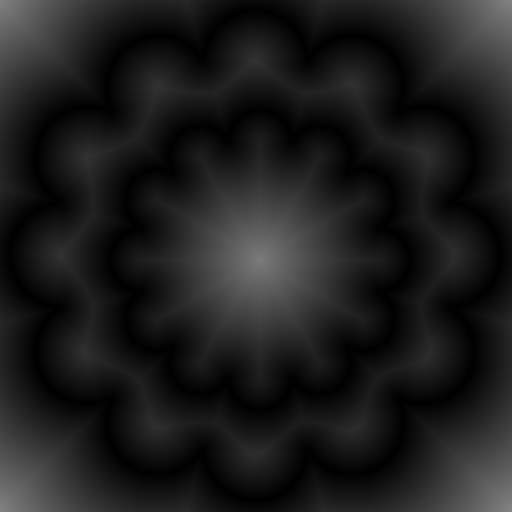
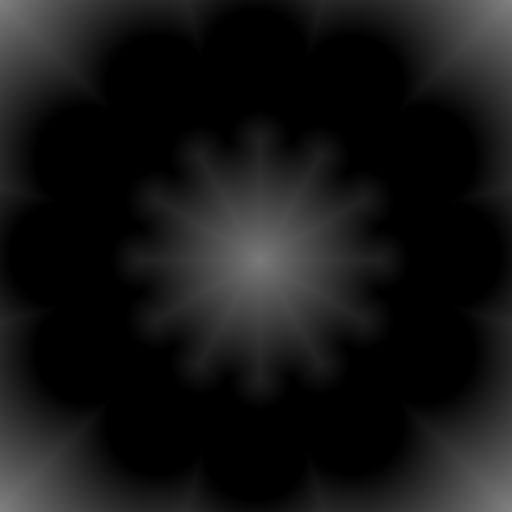
now the different distance types (inner, outer, combined) are correctly generated

Changed region(s): [[0.0625, 0.0625, 0.9375, 0.9375]]

diff --git a/src/df.rs b/src/df.rs
@@ -63,7 +63,7 @@ impl Cell {
         self.nearest_cell_position = Some((x, y));
     }
 
-    pub fn get_distance_squared(first_x : &u16, first_y : &u16, second_x: &u16, second_y:&u16) -> u32 {
+    pub fn get_distance_squared(first_x: &u16, first_y: &u16, second_x: &u16, second_y: &u16) -> u32 {
         // TODO: we should check all the casts here
         // TODO: maybe use appropriate rust functions here
         let horiz_dist = i32::from(first_x.clone()) - i32::from(second_x.clone());
@@ -80,6 +80,46 @@ pub struct DistanceField {
 }
 
 impl DistanceField {
+    // TODO: it is rather stupid to make a filtered distance field. The filter should be moved to the output stage.
+    pub fn filter_inner(source: &Self) -> Self {
+        let cells = source.data.iter().map(|cell| {
+            match cell.layer {
+                CellLayer::Foreground => cell.clone(),
+                CellLayer::Background => Cell {
+                    x: cell.x,
+                    y: cell.y,
+                    layer: CellLayer::Background,
+                    nearest_cell_position: Some((cell.x, cell.y)),
+                }
+            }
+        }).collect();
+        DistanceField {
+            width: source.width,
+            height: source.height,
+            data: cells,
+        }
+    }
+
+    // TODO: it is rather stupid to make a filtered distance field. The filter should be moved to the output stage.
+    pub fn filter_outer(source: &Self) -> Self {
+        let cells = source.data.iter().map(|cell| {
+            match cell.layer {
+                CellLayer::Background => cell.clone(),
+                CellLayer::Foreground => Cell {
+                    x: cell.x,
+                    y: cell.y,
+                    layer: CellLayer::Foreground,
+                    nearest_cell_position: Some((cell.x, cell.y)),
+                }
+            }
+        }).collect();
+        DistanceField {
+            width: source.width,
+            height: source.height,
+            data: cells,
+        }
+    }
+
     /// Initialize a DistanceField based on the given SourceField.
     fn new(source: &SourceField) -> Self {
         let width = source.width;

diff --git a/src/generator.rs b/src/generator.rs
@@ -4,6 +4,7 @@ use crate::naive::*;
 use crate::input::{FieldInput};
 use crate::output::{FieldOutput};
 use std::path::{PathBuf};
+use crate::df::DistanceField;
 
 pub struct DistanceGenerator {
     input: Option<Box<dyn FieldInput>>,
@@ -47,21 +48,19 @@ impl DistanceGenerator {
         if let Some(input) = &self.input {
             let source = input.get_source_field().unwrap();
             if let Some(output) = &self.output {
-                let df = generate_df(&source);
-                /*
-                let sdf = match self.export_type {
+                let mut df = generate_df(&source);
+
+                match self.export_type {
                     ExportType::UnsignedOuterDistance => {
-                        generate_outer_df(&source)
+                        df = DistanceField::filter_outer(&df);
                     }
                     ExportType::UnsignedInnerDistance => {
-                        generate_inner_df(&source)
+                        df = DistanceField::filter_inner(&df)
                     }
-
                     ExportType::UnsignedInnerOuterDistance => {
-                        generate_combined_df(&source)
+
                     }
                 };
-                 */
                 output.output(df);
             }
 

diff --git a/src/output.rs b/src/output.rs
@@ -95,7 +95,7 @@ fn get_standard_encoder(file_path: &String, width: u32, height: u32) -> Encoder<
 mod tests {
     use std::path::{Path, PathBuf};
     use std::fs::{remove_file, create_dir_all, remove_dir};
-    use crate::output::{PngOutput, FieldOutput};
+    use crate::output::{PngOutput, FieldOutput, ImageOutputChannels, ImageOutputChannelDepth};
     use crate::df::{DistanceField, Cell, CellLayer};
 
     const TEMP_DIR: &str = r"__tmp__output__dir__/";
@@ -135,7 +135,10 @@ mod tests {
 
         // TODO: implement the exporter as a type (not as a trait)
 
-        let out = PngOutput::new(&get_temp_image_path().into_os_string().into_string().unwrap());
+        let out = PngOutput::new(
+            &get_temp_image_path().into_os_string().into_string().unwrap(),
+            ImageOutputChannels::One,
+            ImageOutputChannelDepth::Eight);
         out.output(d);
 
         assert!(get_temp_image_path().is_file());
